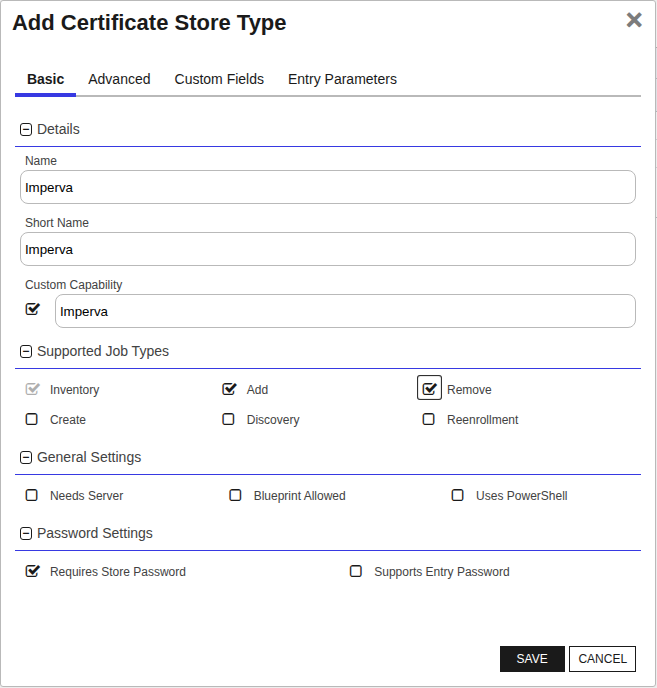
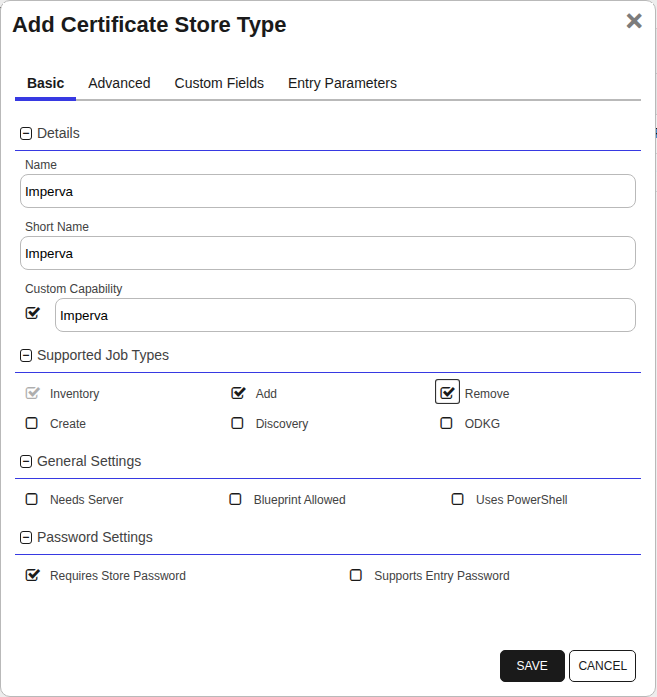
Update generated docs

diff --git a/README.md b/README.md
@@ -40,9 +40,9 @@ The Imperva Orchestrator Extension allows for the management of SSL certificates
 This integration is compatible with Keyfactor Universal Orchestrator version 10.1 and later.
 
 ## Support
-The Imperva Universal Orchestrator extension If you have a support issue, please open a support ticket by either contacting your Keyfactor representative or via the Keyfactor Support Portal at https://support.keyfactor.com.
+The Imperva Universal Orchestrator extension is supported by Keyfactor. If you require support for any issues or have feature request, please open a support ticket by either contacting your Keyfactor representative or via the Keyfactor Support Portal at https://support.keyfactor.com.
 
-> To report a problem or suggest a new feature, use the **[Issues](../../issues)** tab. If you want to contribute actual bug fixes or proposed enhancements, use the **[Pull requests](../../pulls)** tab.
+> If you want to contribute bug fixes or additional enhancements, use the **[Pull requests](../../pulls)** tab.
 
 ## Requirements & Prerequisites
 
@@ -148,21 +148,23 @@ the Keyfactor Command Portal
 
    ![Imperva Custom Fields Tab](docsource/images/Imperva-custom-fields-store-type-dialog.png)
 
+
+
+
    </details>
 
 ## Installation
 
 1. **Download the latest Imperva Universal Orchestrator extension from GitHub.**
 
-    Navigate to the [Imperva Universal Orchestrator extension GitHub version page](https://github.com/Keyfactor/imperva-orchestrator/releases/latest). Refer to the compatibility matrix below to determine whether the `net6.0` or `net8.0` asset should be downloaded. Then, click the corresponding asset to download the zip archive.
+    Navigate to the [Imperva Universal Orchestrator extension GitHub version page](https://github.com/Keyfactor/imperva-orchestrator/releases/latest). Refer to the compatibility matrix below to determine the asset should be downloaded. Then, click the corresponding asset to download the zip archive.
 
    | Universal Orchestrator Version | Latest .NET version installed on the Universal Orchestrator server | `rollForward` condition in `Orchestrator.runtimeconfig.json` | `imperva-orchestrator` .NET version to download |
    | --------- | ----------- | ----------- | ----------- |
    | Older than `11.0.0` | | | `net6.0` |
    | Between `11.0.0` and `11.5.1` (inclusive) | `net6.0` | | `net6.0` |
-   | Between `11.0.0` and `11.5.1` (inclusive) | `net8.0` | `Disable` | `net6.0` |
-   | Between `11.0.0` and `11.5.1` (inclusive) | `net8.0` | `LatestMajor` | `net8.0` |
-   | `11.6` _and_ newer | `net8.0` | | `net8.0` |
+   | Between `11.0.0` and `11.5.1` (inclusive) | `net8.0` | `Disable` | `net6.0` || Between `11.0.0` and `11.5.1` (inclusive) | `net8.0` | `LatestMajor` | `net8.0` |
+   | `11.6` _and_ newer | `net8.0` | | `net8.0` | 
 
     Unzip the archive containing extension assemblies to a known location.
 
